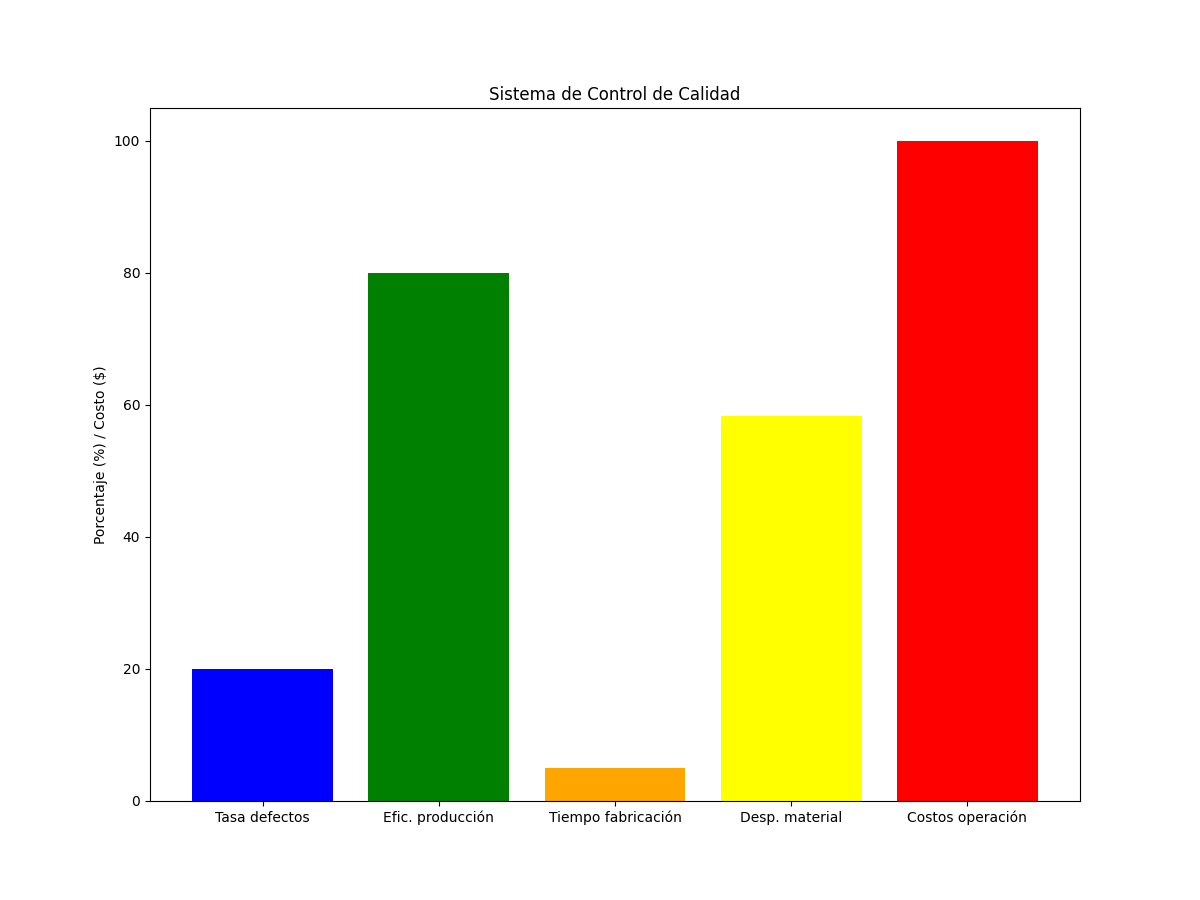
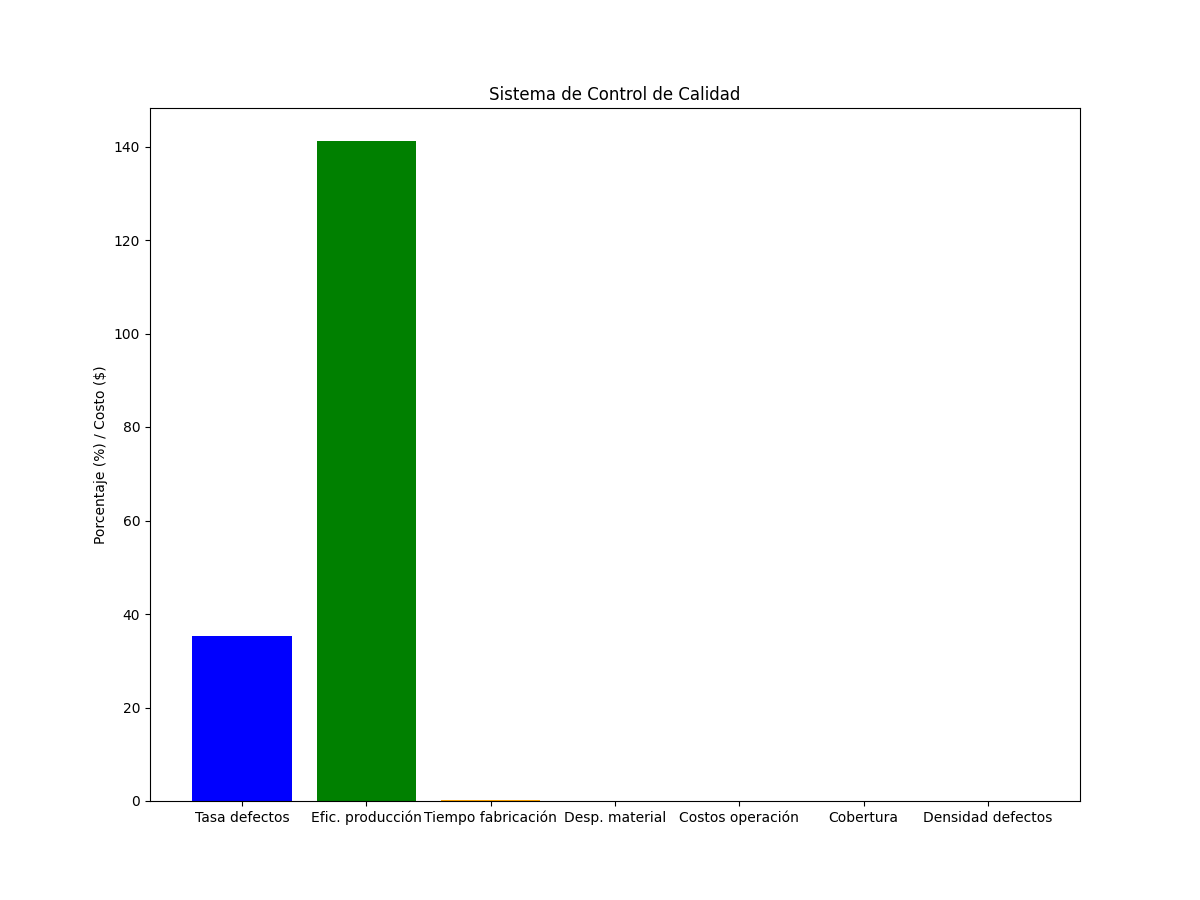
Hola

diff --git a/app/templates/index.html b/app/templates/index.html
@@ -1,117 +1,73 @@
 <!doctype html>
 <html lang="en">
-    <head>
-        <title>Sistema de metricas</title>
-        <!-- Required meta tags -->
-        <meta charset="utf-8" />
-        <meta
-            name="viewport"
-            content="width=device-width, initial-scale=1, shrink-to-fit=no"
-        />
-
-        <!-- Bootstrap CSS v5.2.1 -->
-        <link
-            href="https://cdn.jsdelivr.net/npm/bootstrap@5.3.2/dist/css/bootstrap.min.css"
-            rel="stylesheet"
-            integrity="sha384-T3c6CoIi6uLrA9TneNEoa7RxnatzjcDSCmG1MXxSR1GAsXEV/Dwwykc2MPK8M2HN"
-            crossorigin="anonymous"
-        />
-        <link rel="stylesheet" href="{{ url_for('static', filename = 'css/style.css') }}">
-        <link rel="stylesheet" href="https://cdnjs.cloudflare.com/ajax/libs/font-awesome/6.0.0-beta3/css/all.min.css">
-        <link rel="preconnect" href="https://fonts.googleapis.com">
-        <link rel="preconnect" href="https://fonts.gstatic.com" crossorigin>
-        <link href="https://fonts.googleapis.com/css2?family=Montserrat:ital,wght@0,100..900;1,100..900&family=Poppins:ital,wght@0,100;0,200;0,300;0,400;0,500;0,600;0,700;0,800;0,900&family=Roboto:ital,wght@0,100;0,300;0,400;0,500;0,700;0,900;1,100;1,300;1,400;1,500;1,700;1,900&family=SUSE:wght@100..800&display=swap" rel="stylesheet">
-    </head>
-
-    <body>
-        <header class="header">
-            <div class="logo">
-                <span>Joshua & Erick</span>
-            </div>
-            <div class="actions">
-                <a class="btn btn-exit" href="index.html"> Inicio </a>
-            </div>
-        </header>
-        <main class="main-container container-fluid">
-
-            <div class="container-fluid">
-                <div class="p-5 mb-4 bg-light rounded-3">
-                    <div class="container-fluid py-5">
-                        <h1 class="principal display-5 fw-bold">Sistema de metricas</h1>
-                        <p class="p-valores fs-4">Ingresa los valores y observa los resultados en la gráfica</p>
-                        <div class="filas-container row">
-                            <!-- Formulario a la izquierda -->
-                            <div class="input-container col-md-6">
-                                <form id="metricasForm">
-                                    <div class="mb-3">
-                                        <label class="form-label">Productos Defectuosos:</label>
-                                        <input type="number" class="form-control" name="productos_defectuosos" required>
-                                    </div>
-                        
-                                    <div class="mb-3">
-                                        <label class="form-label">Productos Totales:</label>
-                                        <input type="number" class="form-control" name="productos_totales" required>
-                                    </div>
-                        
-                                    <div class="mb-3">
-                                        <label class="form-label">Productos Buenos:</label>
-                                        <input type="number" class="form-control" name="productos_buenos" required>
-                                    </div>
-                        
-                                    <div class="mb-3">
-                                        <label class="form-label">Tiempo Total (minutos):</label>
-                                        <input type="number" class="form-control" name="tiempo_total" required>
-                                    </div>
-                        
-                                    <div class="mb-3">
-                                        <label class="form-label">Material Desperdiciado (Kg):</label>
-                                        <input type="number" class="form-control" name="material_desperdiciado" required>
-                                    </div>
-                        
-                                    <div class="mb-3">
-                                        <label class="form-label">Material Total (Kg):</label>
-                                        <input type="number" class="form-control" name="material_total" required>
-                                    </div>
-                        
-                                    <div class="mb-3">
-                                        <label class="form-label">Costos Totales ($):</label>
-                                        <input type="number" class="form-control" name="costos_totales" required>
-                                    </div>
-                        
-                                    <button type="submit" class="btn btn-primary">Calcular</button>
-                                </form>
+<head>
+    <title>Dashboard de Métricas</title>
+    <meta charset="utf-8" />
+    <meta name="viewport" content="width=device-width, initial-scale=1, shrink-to-fit=no" />
+    <link href="https://cdn.jsdelivr.net/npm/bootstrap@5.3.2/dist/css/bootstrap.min.css" rel="stylesheet" />
+    <link rel="stylesheet" href="{{ url_for('static', filename='css/style.css') }}" />
+    <!-- Incluir Chart.js -->
+    <script src="https://cdn.jsdelivr.net/npm/chart.js"></script>
+</head>
+<body>
+    <header class="header">
+        <div class="logo">
+            <span>Dashboard de Métricas</span>
+        </div>
+    </header>
+    <main class="main-container container-fluid">
+        <div class="p-5 mb-4 bg-light rounded-3">
+            <div class="container-fluid py-5">
+                <h1 class="principal display-5 fw-bold">Sistema de Métricas</h1>
+                <p class="p-valores fs-4">Ajusta los sliders para ver las métricas en tiempo real.</p>
+                <div class="filas-container row">
+                    <!-- Sliders a la izquierda -->
+                    <div class="input-container col-md-6">
+                        <form id="metricasForm">
+                            <div class="mb-3">
+                                <label class="form-label">Productos Defectuosos:</label>
+                                <input type="range" class="form-range" name="productos_defectuosos" min="0" max="100" value="0" oninput="actualizarMetricas()">
                             </div>
-                        
-                            <!-- Gráfica a la derecha -->
-                            <div class="graficas-container col-md-6 d-flex flex-column align-items-center">
-                                <h3 class="secundario mt-3">Gráfica de Resultados:</h3>
-                                <div id="grafica-container" class="mt-4 text-center">
-                                    <p class="p-graficas">Ingresa los datos y presiona "Calcular" para ver la gráfica.</p>
-                                </div>
-                                <div id="resultados" style="margin-top: 20px;">
-                                    <!-- Aquí aparecerán los resultados -->
-                                </div>
+                            <div class="mb-3">
+                                <label class="form-label">Productos Totales:</label>
+                                <input type="range" class="form-range" name="productos_totales" min="0" max="100" value="0" oninput="actualizarMetricas()">
                             </div>
-                        </div>                        
-
+                            <div class="mb-3">
+                                <label class="form-label">Productos Buenos:</label>
+                                <input type="range" class="form-range" name="productos_buenos" min="0" max="100" value="0" oninput="actualizarMetricas()">
+                            </div>
+                            <div class="mb-3">
+                                <label class="form-label">Tiempo Total (minutos):</label>
+                                <input type="range" class="form-range" name="tiempo_total" min="0" max="100" value="0" oninput="actualizarMetricas()">
+                            </div>
+                            <div class="mb-3">
+                                <label class="form-label">Material Desperdiciado (Kg):</label>
+                                <input type="range" class="form-range" name="material_desperdiciado" min="0" max="100" value="0" oninput="actualizarMetricas()">
+                            </div>
+                            <div class="mb-3">
+                                <label class="form-label">Material Total (Kg):</label>
+                                <input type="range" class="form-range" name="material_total" min="0" max="100" value="0" oninput="actualizarMetricas()">
+                            </div>
+                            <div class="mb-3">
+                                <label class="form-label">Costos Totales ($):</label>
+                                <input type="range" class="form-range" name="costos_totales" min="0" max="100" value="0" oninput="actualizarMetricas()">
+                            </div>
+                        </form>
+                    </div>
+                    <!-- Gráficas a la derecha -->
+                    <div class="graficas-container col-md-6 d-flex flex-column align-items-center">
+                        <h3 class="secundario mt-3">Gráficas de Líneas:</h3>
+                        <div id="graficas-individuales-container" class="row mt-4">
+                            <!-- Aquí se mostrarán las gráficas de líneas -->
+                        </div>
+                        <div id="resultados" style="margin-top: 20px;">
+                            <!-- Aquí aparecerán los resultados -->
+                        </div>
                     </div>
                 </div>
             </div>
-
-        </main>
-
-        <!-- Bootstrap JavaScript Libraries -->
-        <script
-            src="https://cdn.jsdelivr.net/npm/@popperjs/core@2.11.8/dist/umd/popper.min.js"
-            integrity="sha384-I7E8VVD/ismYTF4hNIPjVp/Zjvgyol6VFvRkX/vR+Vc4jQkC+hVqc2pM8ODewa9r"
-            crossorigin="anonymous"
-        ></script>
-
-        <script
-            src="https://cdn.jsdelivr.net/npm/bootstrap@5.3.2/dist/js/bootstrap.min.js"
-            integrity="sha384-BBtl+eGJRgqQAUMxJ7pMwbEyER4l1g+O15P+16Ep7Q9Q+zqX6gSbd85u4mG4QzX+"
-            crossorigin="anonymous"
-        ></script>
-        <script src="{{ url_for('static', filename = 'js/metodos.js') }}"></script>
-    </body>
+        </div>
+    </main>
+    <script src="{{ url_for('static', filename='js/metodos.js') }}"></script>
+</body>
 </html>

diff --git a/app/static/js/metodos.js b/app/static/js/metodos.js
@@ -1,29 +1,83 @@
-document.getElementById("metricasForm").addEventListener("submit", function(event) {
-    event.preventDefault();
+// Objeto para almacenar las instancias de Chart.js
+const charts = {};
 
-    // Capturar los datos del formulario
-    let formData = new FormData(this);
+function actualizarMetricas() {
+    const formData = new FormData(document.getElementById("metricasForm"));
 
-    // Enviar datos al servidor Flask
     fetch("/calcular", {
         method: "POST",
         body: formData
     })
     .then(response => response.json())
     .then(data => {
-        // Actualizar la imagen con la nueva gráfica
-        document.getElementById("grafica-container").innerHTML = `
-            <img src="${data.image}?t=${new Date().getTime()}" class="img-fluid" alt="Gráfica de métricas">
-        `;
-
         // Mostrar los valores debajo de la gráfica
         document.getElementById("resultados").innerHTML = `
             <p><strong>Tasa de defectos:</strong> ${data.tasa_defec}</p>
             <p><strong>Eficiencia de producción:</strong> ${data.efic_produc}</p>
             <p><strong>Tiempo de fabricación:</strong> ${data.tiempo_fabric}</p>
             <p><strong>Desperdicio de material:</strong> ${data.desp_material}</p>
-            <p><strong>Costos por operación:</strong> ${data.cost_oper}</p>
+            <p><strong>Costos de operación:</strong> ${data.cost_oper}</p>
         `;
+
+        // Actualizar las gráficas de líneas
+        const graficasContainer = document.getElementById("graficas-individuales-container");
+
+        for (const [nombre, valores] of Object.entries(data.historial)) {
+            if (!charts[nombre]) {
+                // Crear un nuevo gráfico si no existe
+                const canvas = document.createElement("canvas");
+                canvas.id = `chart-${nombre}`;
+                graficasContainer.appendChild(canvas);
+
+                charts[nombre] = new Chart(canvas, {
+                    type: "line",
+                    data: {
+                        labels: Array.from({ length: valores.length }, (_, i) => i + 1),
+                        datasets: [{
+                            label: nombre,
+                            data: valores,
+                            borderColor: getRandomColor(),
+                            fill: false
+                        }]
+                    },
+                    options: {
+                        responsive: true,
+                        animation: {
+                            duration: 1000 // Duración de la animación
+                        },
+                        scales: {
+                            x: {
+                                display: true,
+                                title: {
+                                    display: true,
+                                    text: "Tiempo"
+                                }
+                            },
+                            y: {
+                                display: true,
+                                title: {
+                                    display: true,
+                                    text: "Valor"
+                                }
+                            }
+                        }
+                    }
+                });
+            } else {
+                // Actualizar el gráfico existente
+                charts[nombre].data.labels = Array.from({ length: valores.length }, (_, i) => i + 1);
+                charts[nombre].data.datasets[0].data = valores;
+                charts[nombre].update();
+            }
+        }
     })
     .catch(error => console.error("Error:", error));
-});
+}
+
+// Función para generar colores aleatorios
+function getRandomColor() {
+    const r = Math.floor(Math.random() * 256);
+    const g = Math.floor(Math.random() * 256);
+    const b = Math.floor(Math.random() * 256);
+    return `rgb(${r}, ${g}, ${b})`;
+}

diff --git a/app/app.py b/app/app.py
@@ -1,18 +1,26 @@
 from flask import Flask, render_template, request, jsonify
-import matplotlib.pyplot as plt
-import os
+from collections import deque
+import random
 
 app = Flask(__name__)
+
+# Almacenar un historial de métricas (últimos 10 valores)
+historial_metricas = {
+    "Tasa de defectos": deque(maxlen=10),
+    "Eficiencia de producción": deque(maxlen=10),
+    "Tiempo de fabricación": deque(maxlen=10),
+    "Desperdicio de material": deque(maxlen=10),
+    "Costos de operación": deque(maxlen=10)
+}
 
 @app.route('/')
 def index():
     return render_template('index.html')
 
-# Ruta para procesar datos y generar la gráfica
 @app.route("/calcular", methods=["POST"])
 def calcular():
     try:
-        # Obtener datos del formulario
+        # Obtener datos de los sliders
         productos_defectuosos = int(request.form["productos_defectuosos"])
         productos_totales = int(request.form["productos_totales"])
         productos_buenos = int(request.form["productos_buenos"])
@@ -28,28 +36,21 @@ def calcular():
         desp_material = (material_desperdiciado / material_total) * 100 if material_total > 0 else 0
         cost_oper = costos_totales / productos_totales if productos_totales > 0 else 0
 
-        # Crear la gráfica
-        labels = ["Tasa defectos", "Efic. producción", "Tiempo fabricación", "Desp. material", "Costos operación"]
-        values = [tasa_defec, efic_produc, tiempo_fabric, desp_material, cost_oper]
+        # Actualizar el historial de métricas
+        historial_metricas["Tasa de defectos"].append(tasa_defec)
+        historial_metricas["Eficiencia de producción"].append(efic_produc)
+        historial_metricas["Tiempo de fabricación"].append(tiempo_fabric)
+        historial_metricas["Desperdicio de material"].append(desp_material)
+        historial_metricas["Costos de operación"].append(cost_oper)
 
-        plt.figure(figsize=(12, 9))
-        plt.bar(labels, values, color=['blue', 'green', 'orange', 'yellow', 'red'])
-        plt.ylabel("Porcentaje (%) / Costo ($)")
-        plt.title("Sistema de Control de Calidad")
-
-        # Guardar la imagen en la carpeta static
-        img_path = os.path.join(app.static_folder, "grafica.png")
-        plt.savefig(img_path)
-        plt.close()
-
-        # Enviar la imagen y los valores calculados
+        # Enviar el historial de métricas al frontend
         return jsonify({
-            "image": "/static/grafica.png",
             "tasa_defec": f"{tasa_defec:.2f} %",
             "efic_produc": f"{efic_produc:.2f} %",
             "tiempo_fabric": f"{tiempo_fabric:.2f} min/unidad",
             "desp_material": f"{desp_material:.2f} %",
-            "cost_oper": f"{cost_oper:.2f} $/unidad"
+            "cost_oper": f"{cost_oper:.2f} $/unidad",
+            "historial": {k: list(v) for k, v in historial_metricas.items()}
         })
 
     except Exception as e:
